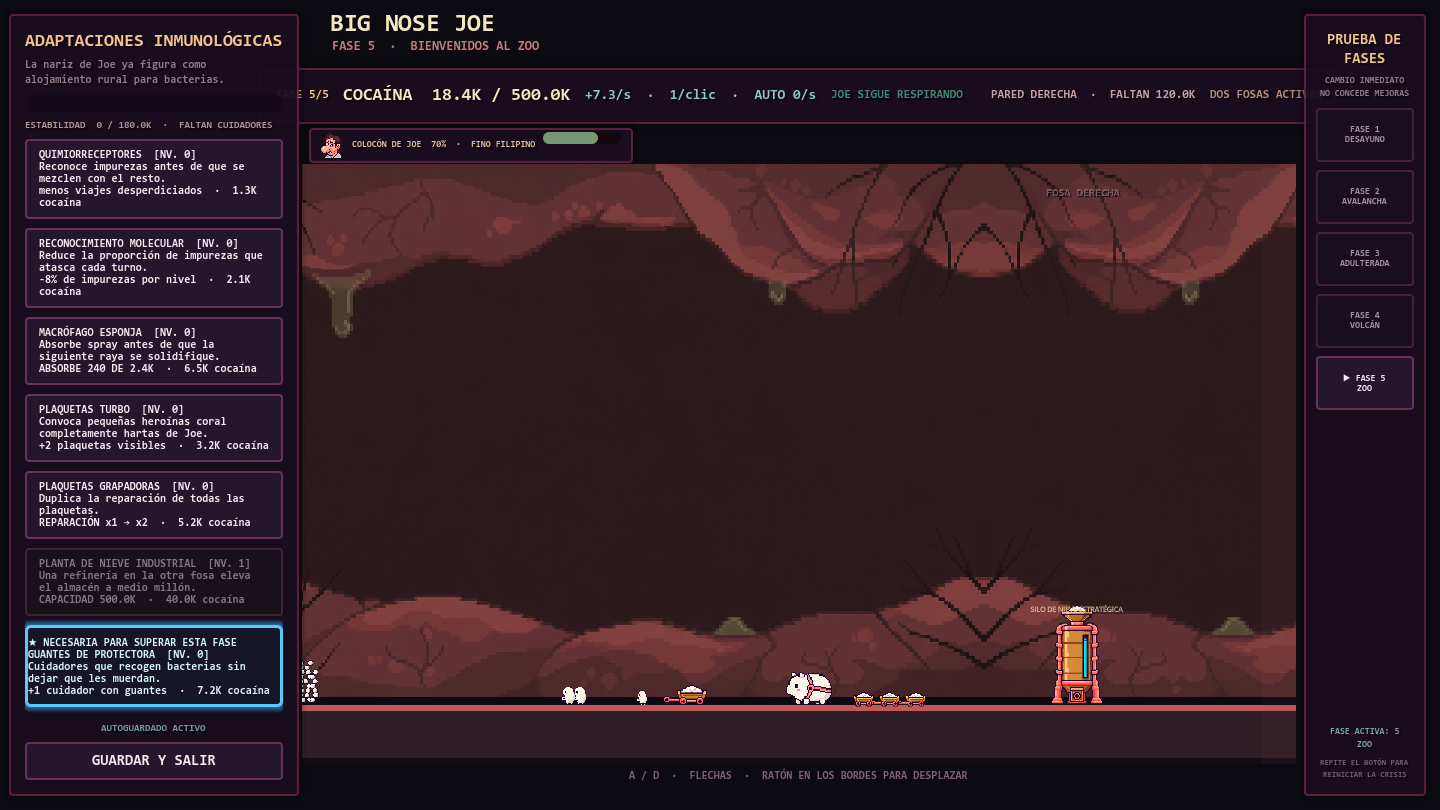
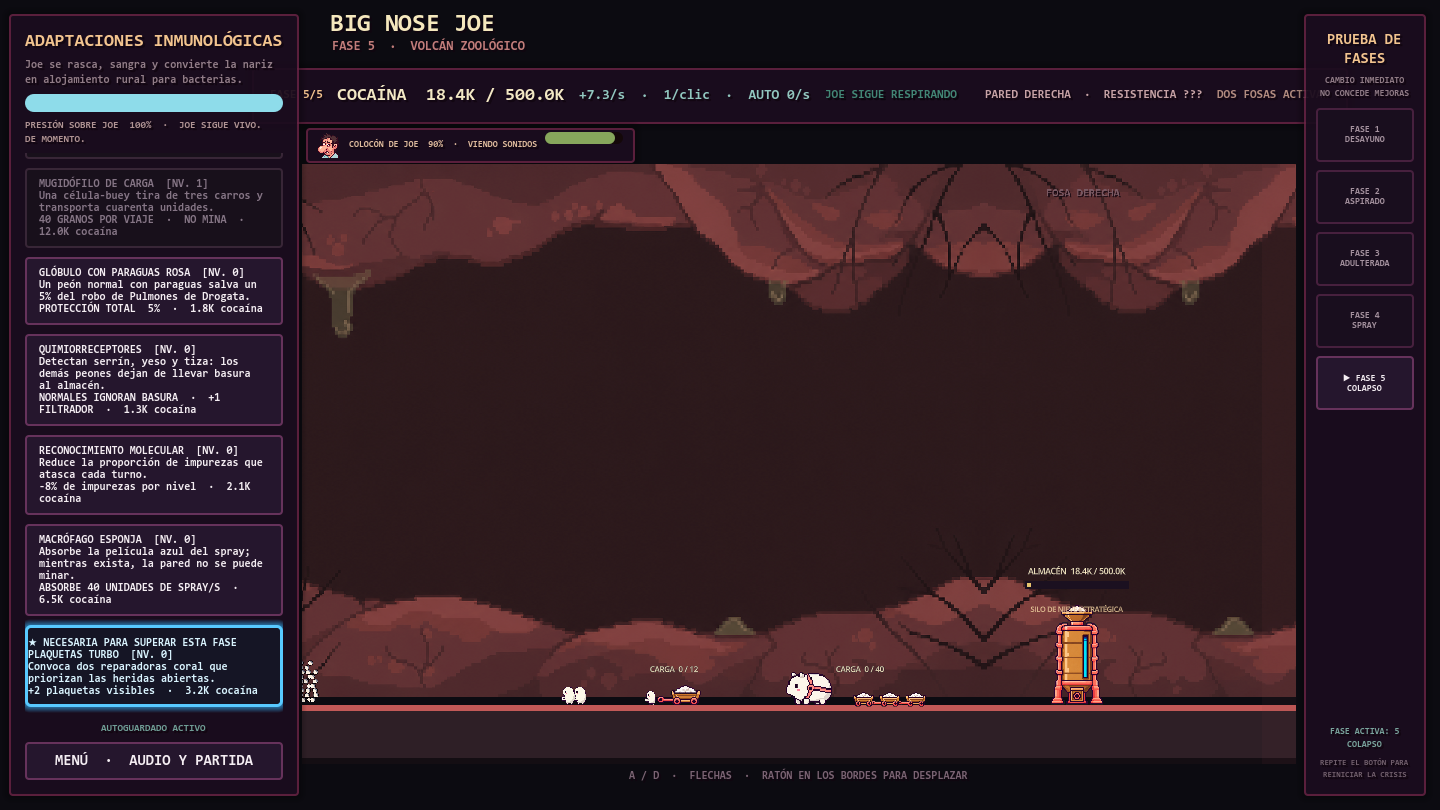
Mejora feedback visual 1

diff --git a/README.md b/README.md
@@ -37,7 +37,7 @@ Cuando el jugador baja por primera vez el colocón de Joe al 70%, el apelmazado 
 
 Los peones recorren un ciclo físico completo: salen vacíos de la caja, rascan exactamente un grano de la pared, esperan la caída, levantan piezas expuestas, muestran la carga junto al cuerpo y la depositan dentro de la caja. Ese raspado mantiene una producción basal sin competir con los púgiles. `TRABAJO EN CADENA` solo aparece después de perforar el tabique.
 
-Solo los peones blancos rascan la pared. La logística crece como una cadena visible y separada: el cajón inicial admite 1.000 unidades; el `CONTENEDOR DE NIEVE DE EMERGENCIA`, 5.000; el `SILO DE NIEVE ESTRATÉGICA`, 50.000; y la `PLANTA DE NIEVE INDUSTRIAL`, 500.000. El carrito mueve 12 granos por viaje, el `MUGIDÓFILO DE CARGA` tira de tres carros con 40 y el `EXPRESO LEUCOCITARIO` recoge todo el polvo normal disponible. Ninguno mina ni daña bloques desprendidos. Si uno de esos bloques corta el paso, la logística espera hasta que el jugador lo pique.
+Solo los peones blancos rascan la pared. La logística crece como una cadena visible y separada: el cajón inicial admite 1.000 unidades; el `CONTENEDOR DE NIEVE DE EMERGENCIA`, 5.000; el `SILO DE NIEVE ESTRATÉGICA`, 50.000; y la `PLANTA DE NIEVE INDUSTRIAL`, 500.000. Cada almacén conserva encima un contador y una barra de llenado locales. El carrito mueve 12 unidades por viaje y enseña su carga exacta; el `MUGIDÓFILO DE CARGA` tira de tres carros con 40 y el `EXPRESO LEUCOCITARIO` recoge todo el polvo normal disponible. Ninguno mina ni daña bloques desprendidos. Si uno de esos bloques corta el paso, la logística espera hasta que el jugador lo pique.
 
 El Expreso se desbloquea al final, después de abrir la segunda fosa y construir la planta. Recoge en la fosa derecha, sale cargado por un túnel del extremo derecho y reaparece por el extremo izquierdo para descargar en la planta. El viaje vacío hace el circuito inverso. No existen vías sobre el tabique ni cruces visibles entre fosas. La caja y cada edificio tienen límite real; cuando se llenan, las entregas se detienen hasta que el jugador gasta cocaína o amplía el almacén.
 
@@ -53,7 +53,7 @@ La prueba de regresión fija veinte mil partículas individuales como carga de r
 
 ## Pared y colocón de Joe
 
-Las dos paredes tienen 10.000 millones de puntos de resistencia. Conservan su anchura completa al 100% y se reducen proporcionalmente hasta un mínimo visual del 5%. Cada punto porcentual atravesado abre o profundiza una muesca azulada claramente acumulativa en el borde libre y desprende polvo visual. El recorte se calcula desde el primer píxel opaco de la silueta, por lo que siempre elimina una parte visible del muro. Cada 10% una de esas fracturas crece, arranca un bloque compacto equivalente y lo deja caer al suelo en su propia capa. Ese bloque contiene 25 unidades reales, pero tiene 24 puntos de resistencia independientes: cada golpe libera solo una parte y el daño manual está limitado a tres, por lo que incluso un clic muy mejorado necesita al menos ocho impactos. El desgaste se comunica mediante grietas y texto, sin la antigua barra horizontal. Al llegar a cero, una pared queda agotada y desaparece definitivamente; no se regenera de golpe.
+Las dos paredes tienen 10.000 millones de puntos de resistencia, pero esa cifra aparece como `???` al comenzar. Solo la `RADIOGRAFÍA DE NAPIA`, disponible después de analizar el serrín y el yeso, revela el valor restante. Conservan su anchura completa al 100% y se reducen proporcionalmente hasta un mínimo visual del 5%. Cada punto porcentual atravesado abre o profundiza una muesca azulada claramente acumulativa en el borde libre y desprende polvo visual. El recorte se calcula desde el primer píxel opaco de la silueta, por lo que siempre elimina una parte visible del muro. Cada 10% una de esas fracturas crece, arranca un bloque compacto equivalente y lo deja caer al suelo en su propia capa. Ese bloque contiene 25 unidades reales, pero tiene 24 puntos de resistencia independientes: cada golpe libera solo una parte y el daño manual está limitado a tres, por lo que incluso un clic muy mejorado necesita al menos ocho impactos. El desgaste se comunica mediante grietas y texto, sin la antigua barra horizontal. Al llegar a cero, una pared queda agotada y desaparece definitivamente; no se regenera de golpe.
 
 `COLOCÓN DE JOE` es la carrera global: entregar cocaína limpia baja el valor; las nuevas rayas, la contaminación, el daño tisular y la infección lo elevan. Alcanzar el 100% mata a Joe y abre una decisión: cargar el último guardado o volver al menú. La sobredosis nunca sobrescribe la partida. El jugador ve siempre unidades reales en los impactos —granos robados, salvados por paraguas, absorbidos, restaurados o bloqueados— aunque el balance interno use porcentajes.
 
@@ -61,9 +61,9 @@ Los desastres no forman una ruleta ni pueden cancelarse. Cada fase añade un tem
 
 ## Automatización de los golpes
 
-La producción automática especializada no está disponible al comenzar. Cada 120 segundos Joe se mete `OTRA RAYITA`: aparece un aviso y una oleada de 80, 120, 200, 400, 800, 1.600 o 3.000 granos según la extracción reciente. Todos valen exactamente una unidad y ocupan un hueco completo de transporte, de modo que son sabotaje logístico y no paquetes de riqueza. Los granos extraídos por el jugador conservan el valor completo del golpe y solo se distinguen de los de Joe mediante un contorno oscuro muy sutil; nunca revelan su valor ni se fraccionan para entrar en el almacén. Tras la primera avalancha se desbloquea `CÉLULA PÚGIL EN PRÁCTICAS`.
+La producción automática especializada no está disponible al comenzar. Cada 120 segundos Joe se mete `OTRA RAYITA`: aparece un aviso y una oleada de 240, 360, 600, 1.000, 1.600, 2.600 o 4.000 granos según la extracción reciente. Todos valen exactamente una unidad y ocupan un hueco completo de transporte, de modo que son sabotaje logístico y no paquetes de riqueza. Los granos extraídos por el jugador conservan el valor completo del golpe y solo se distinguen de los de Joe mediante un contorno oscuro pronunciado; nunca revelan su valor ni se fraccionan para entrar en el almacén. Tras la primera avalancha se desbloquea `CÉLULA PÚGIL EN PRÁCTICAS`.
 
-El primer púgil entra con guante rojo y cinta azul, calienta el brazo, atraviesa físicamente la zona de trabajo y golpea 50 unidades. Sus cuatro rangos saltan a 300, 1.800 y 12.000 por golpe mientras el intervalo baja de 4 a 2,2 segundos antes de las mejoras de campana. Después llegan tres saltos deliberadamente absurdos: el `PAQUIDERMO LEUCOCITARIO` camina hasta la pared y embiste 120.000 cada veinte segundos; el `CAÑÓN DE CÉLULAS PÚGIL` dispara 750.000 cada catorce; y el `LEUCOCITO SUPERSAIYAN` carga un Kamehameha de 50 millones cada cincuenta. Sus mejoras multiplican esos impactos por cinco, seis y diez respectivamente.
+El primer púgil entra con guante rojo y cinta azul, calienta el brazo, atraviesa físicamente la zona de trabajo y suelta siempre diez partículas. Los cuatro rangos producen respectivamente diez bolas de 5, 10, 20 y 50 unidades: impactos totales de 50, 100, 200 y 500. Cada evolución incorpora capas visibles de guante, cinta, cinturón, insignia y aura, y solo puede comprarse una evolución nueva por fase. Después llegan tres saltos deliberadamente absurdos: el `PAQUIDERMO LEUCOCITARIO` camina hasta la pared y embiste 120.000 cada veinte segundos; el `CAÑÓN DE CÉLULAS PÚGIL` dispara 750.000 cada catorce; y el `LEUCOCITO SUPERSAIYAN` carga un Kamehameha de 50 millones cada cincuenta. Sus mejoras multiplican esos impactos por cinco, seis y diez respectivamente.
 
 `GUANTES EMPAPADOS EN COCAÍNA` aumenta los granos desprendidos por golpe y `CAMPANA SIN DESCANSO` reduce el intervalo entre rondas. Los recolectores siguen siendo necesarios para convertir el polvo del suelo en células, por lo que producción y logística pueden mejorarse por separado.
 
